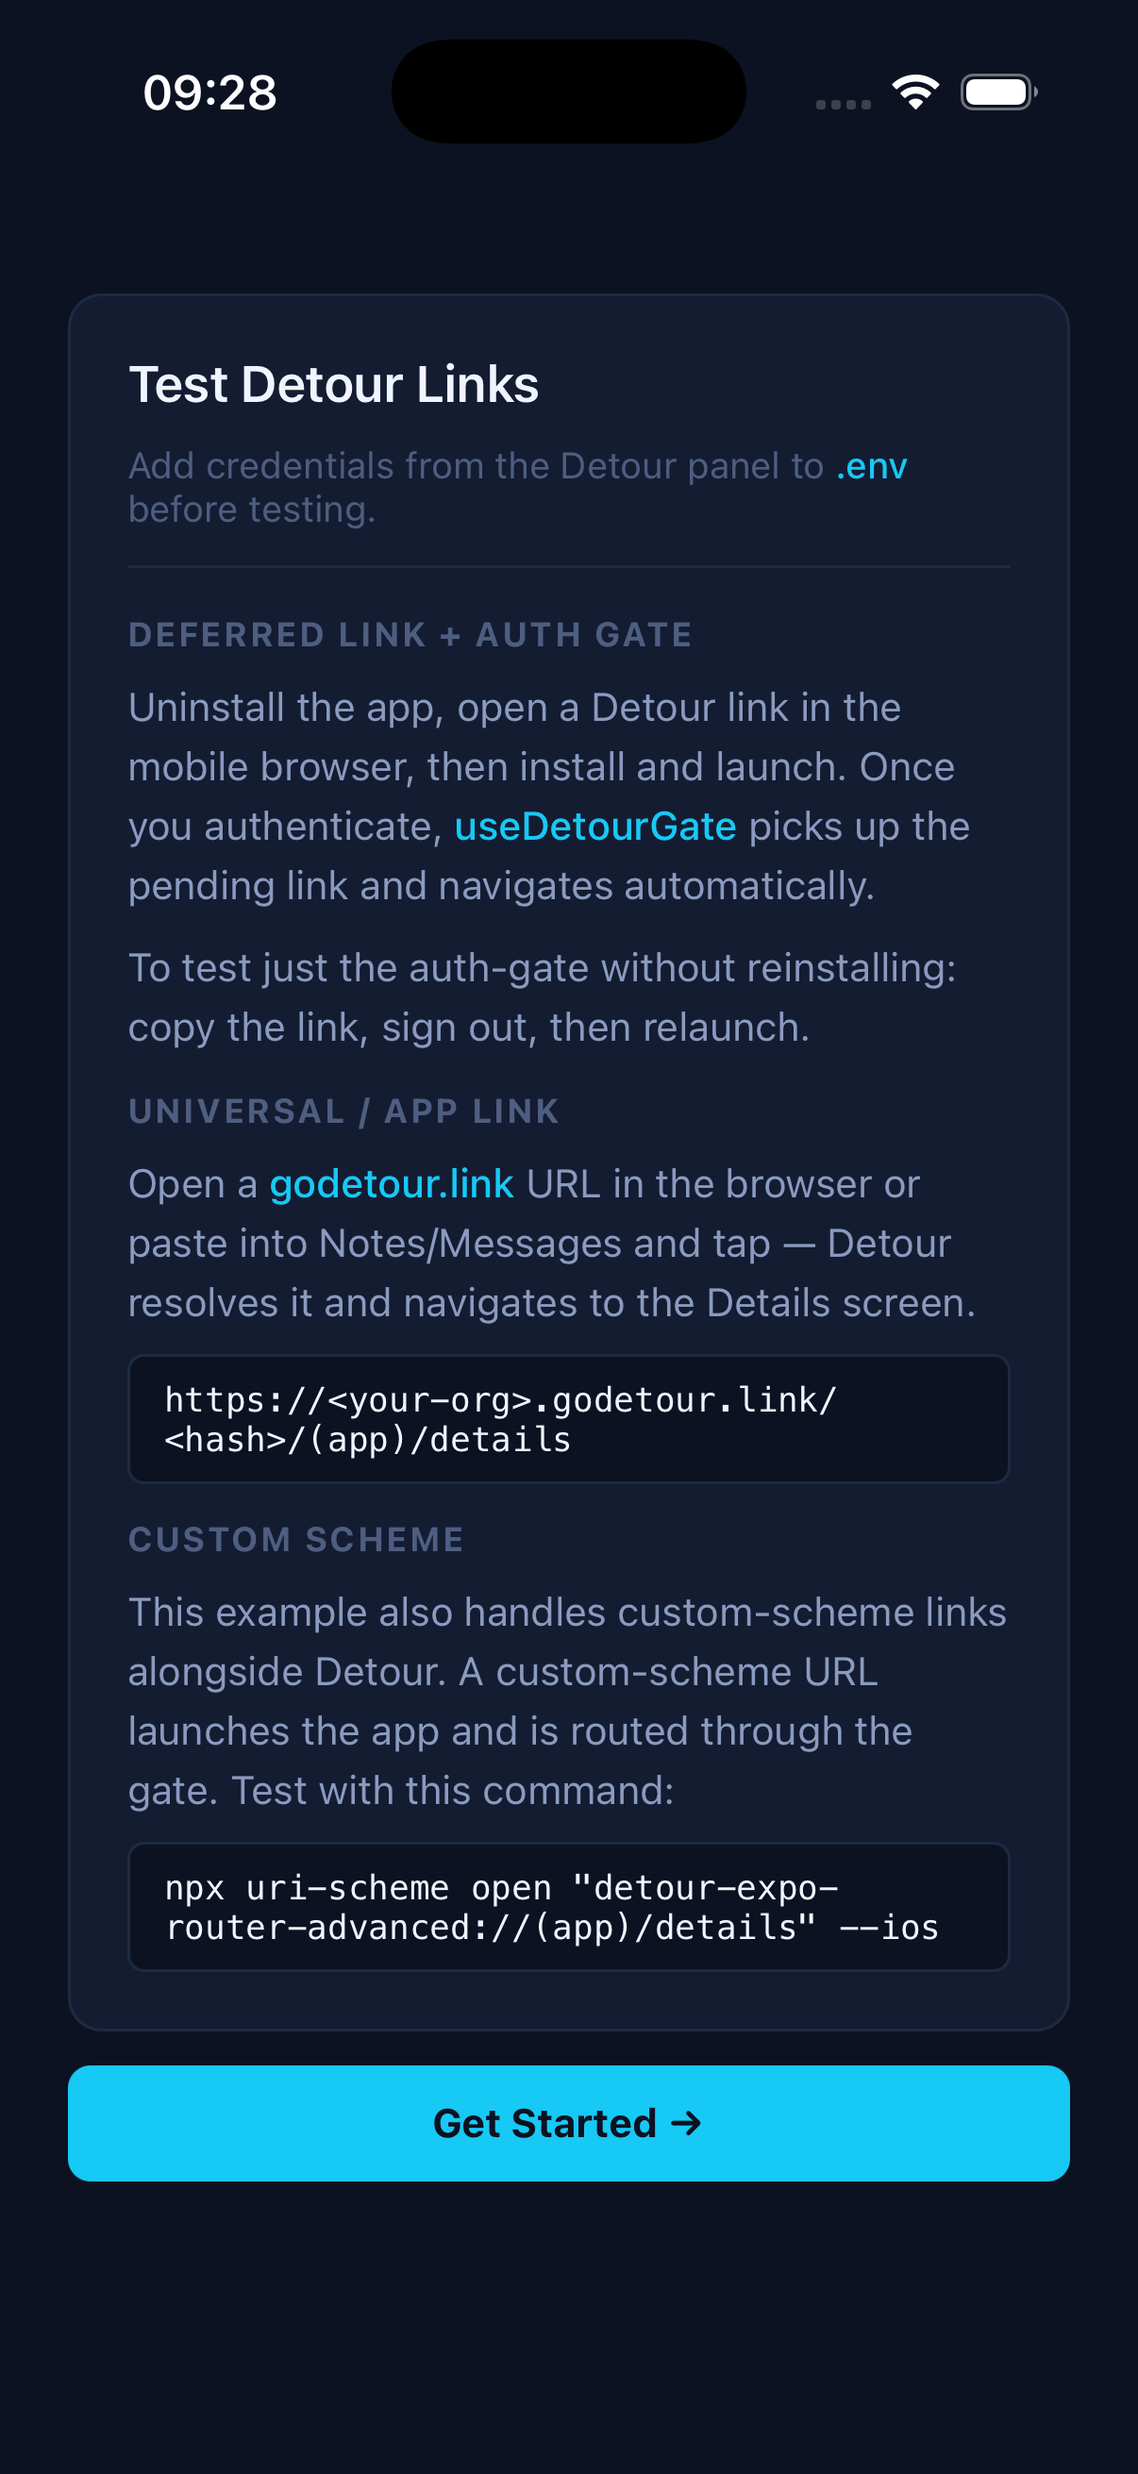
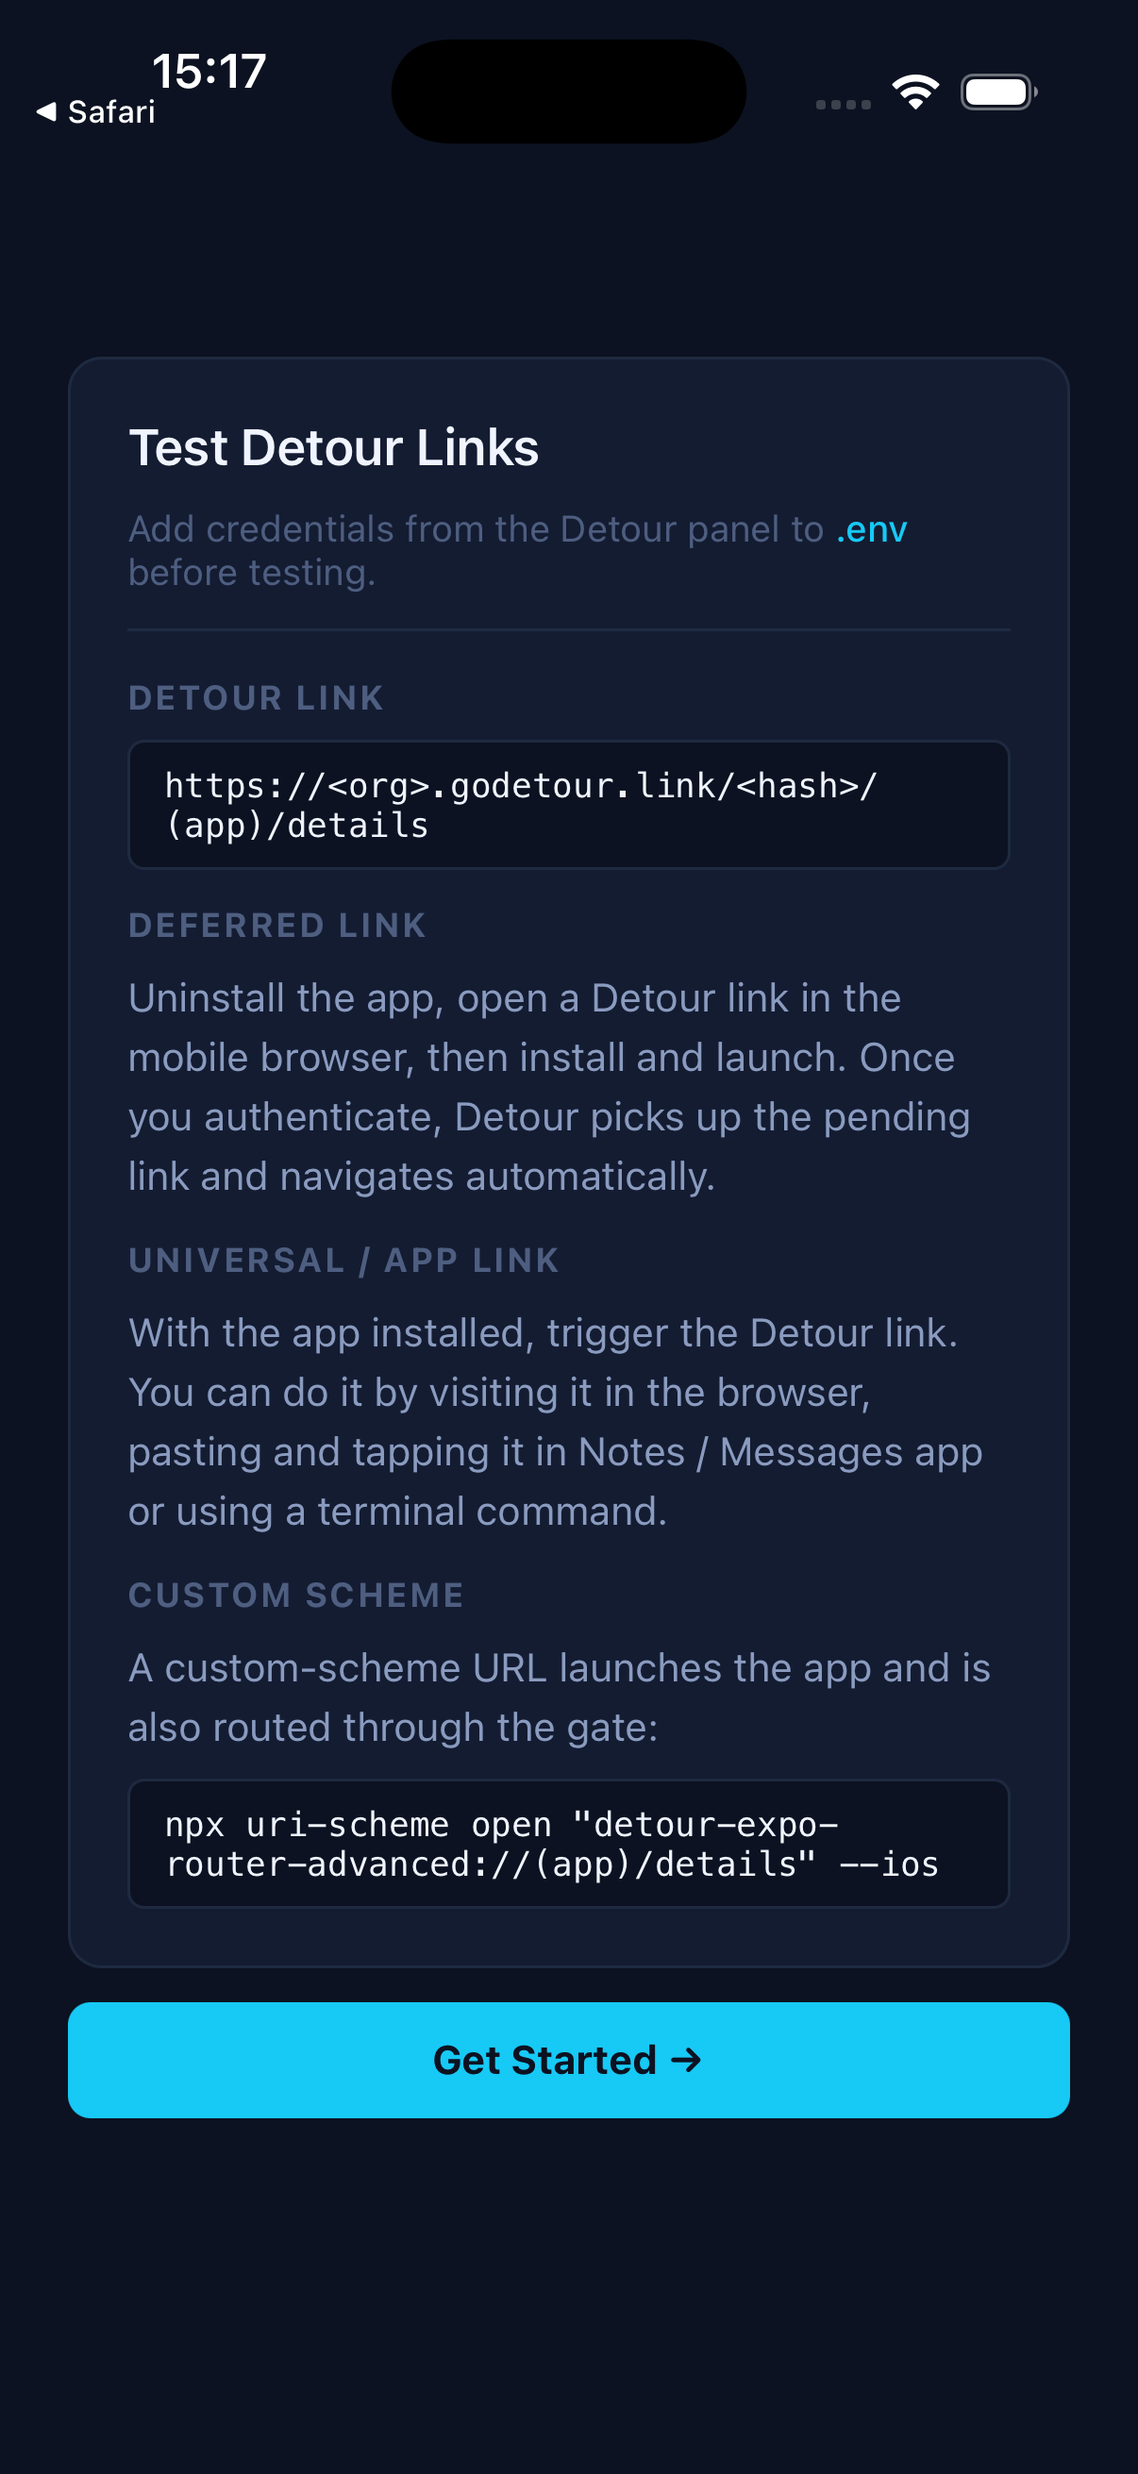
refactor: extract LinkTestingCard component

Changed region(s): [[0.0614, 0.1236, 0.9511, 0.8959], [0.0614, 0.0, 0.2454, 0.0618]]

diff --git a/examples/expo-router-advanced/src/app/(app)/(tabs)/index.tsx b/examples/expo-router-advanced/src/app/(app)/(tabs)/index.tsx
@@ -1,7 +1,8 @@
-import { Platform, Pressable, ScrollView, Text, View } from "react-native";
+import { Pressable, ScrollView, Text, View } from "react-native";
 
 import { Link } from "expo-router";
 
+import { LinkTestingCard } from "../../../LinkTestingCard";
 import { useAuth } from "../../../auth";
 import { colors, styles } from "../../../styles";
 
@@ -11,44 +12,7 @@ export default function HomeScreen() {
   return (
     <View style={{ flex: 1, backgroundColor: colors.background }}>
       <ScrollView contentContainerStyle={styles.scrollContent}>
-        <View style={styles.card}>
-          <Text style={styles.title}>Detour Example</Text>
-          <Text style={styles.subtitle}>
-            Add credentials from the Detour panel to <Text style={styles.accent}>.env</Text> before
-            testing.
-          </Text>
-
-          <View style={styles.divider} />
-
-          <Text style={styles.sectionHeader}>Universal / App Link</Text>
-          <Text style={styles.bullet}>
-            Open a <Text style={styles.accent}>godetour.link</Text> URL in the browser — Detour
-            resolves it and navigates to the Details screen.
-          </Text>
-          <Text style={styles.code}>
-            https://&lt;your-org&gt;.godetour.link/&lt;hash&gt;/(app)/details
-          </Text>
-
-          <Text style={styles.sectionHeader}>Custom Scheme</Text>
-          <Text style={styles.bullet}>
-            This example also handles custom-scheme links alongside Detour. A custom-scheme URL
-            launches the app and is routed through the gate. Test with this command:
-          </Text>
-          <Text style={styles.code}>
-            npx uri-scheme open {`"detour-expo-router-advanced://(app)/details"`}{" "}
-            {Platform.OS === "android" ? "--android" : "--ios"}
-          </Text>
-
-          <Text style={styles.sectionHeader}>Deferred Link + Auth Gate</Text>
-          <Text style={styles.bullet}>
-            Copy a Detour link, sign out, then relaunch. The link survives sign-in —{" "}
-            <Text style={styles.accent}>useDetourGate</Text> picks it up once authenticated.
-          </Text>
-          <Text style={styles.bullet}>
-            Make sure <Text style={styles.accent}>Copy link feature enabled</Text> is turned on in
-            App Configuration in the Detour panel.
-          </Text>
-        </View>
+        <LinkTestingCard title="Detour Example" />
       </ScrollView>
 
       <View style={{ flexDirection: "row", gap: 12, padding: 16 }}>

diff --git a/examples/expo-router-advanced/src/app/(app)/onboarding.tsx b/examples/expo-router-advanced/src/app/(app)/onboarding.tsx
@@ -1,9 +1,10 @@
-import { Platform, Pressable, ScrollView, Text, View } from "react-native";
+import { Pressable, ScrollView, Text } from "react-native";
 
 import { useRouter } from "expo-router";
 
 import { useDetourContext } from "@swmansion/react-native-detour";
 
+import { LinkTestingCard } from "../../LinkTestingCard";
 import { useAuth } from "../../auth";
 import { colors, styles } from "../../styles";
 
@@ -26,44 +27,7 @@ export default function OnboardingScreen() {
       style={{ flex: 1, backgroundColor: colors.background }}
       contentContainerStyle={styles.scrollContent}
     >
-      <View style={styles.card}>
-        <Text style={styles.title}>Test Detour Links</Text>
-        <Text style={styles.subtitle}>
-          Add credentials from the Detour panel to <Text style={styles.accent}>.env</Text> before
-          testing.
-        </Text>
-
-        <View style={styles.divider} />
-
-        <Text style={styles.sectionHeader}>Deferred Link + Auth Gate</Text>
-        <Text style={styles.bullet}>
-          Uninstall the app, open a Detour link in the mobile browser, then install and launch. Once
-          you authenticate, <Text style={styles.accent}>useDetourGate</Text> picks up the pending
-          link and navigates automatically.
-        </Text>
-        <Text style={styles.bullet}>
-          To test just the auth-gate without reinstalling: copy the link, sign out, then relaunch.
-        </Text>
-
-        <Text style={styles.sectionHeader}>Universal / App Link</Text>
-        <Text style={styles.bullet}>
-          Open a <Text style={styles.accent}>godetour.link</Text> URL in the browser or paste into
-          Notes/Messages and tap — Detour resolves it and navigates to the Details screen.
-        </Text>
-        <Text style={styles.code}>
-          https://&lt;your-org&gt;.godetour.link/&lt;hash&gt;/(app)/details
-        </Text>
-
-        <Text style={styles.sectionHeader}>Custom Scheme</Text>
-        <Text style={styles.bullet}>
-          This example also handles custom-scheme links alongside Detour. A custom-scheme URL
-          launches the app and is routed through the gate. Test with this command:
-        </Text>
-        <Text style={styles.code}>
-          npx uri-scheme open {`"detour-expo-router-advanced://(app)/details"`}{" "}
-          {Platform.OS === "android" ? "--android" : "--ios"}
-        </Text>
-      </View>
+      <LinkTestingCard title="Test Detour Links" />
 
       <Pressable
         onPress={handleGetStarted}

diff --git a/examples/expo-router-advanced/src/app/(app)/(tabs)/settings.tsx b/examples/expo-router-advanced/src/app/(app)/(tabs)/settings.tsx
@@ -1,7 +1,8 @@
-import { Platform, Pressable, ScrollView, Text, View } from "react-native";
+import { Pressable, ScrollView, Text, View } from "react-native";
 
 import { Link } from "expo-router";
 
+import { LinkTestingCard } from "../../../LinkTestingCard";
 import { useAuth } from "../../../auth";
 import { colors, styles } from "../../../styles";
 
@@ -11,44 +12,7 @@ export default function SettingsScreen() {
   return (
     <View style={{ flex: 1, backgroundColor: colors.background }}>
       <ScrollView contentContainerStyle={styles.scrollContent}>
-        <View style={styles.card}>
-          <Text style={styles.title}>Settings</Text>
-          <Text style={styles.subtitle}>
-            Add credentials from the Detour panel to <Text style={styles.accent}>.env</Text> before
-            testing.
-          </Text>
-
-          <View style={styles.divider} />
-
-          <Text style={styles.sectionHeader}>Universal / App Link</Text>
-          <Text style={styles.bullet}>
-            Open a <Text style={styles.accent}>godetour.link</Text> URL in the browser — Detour
-            resolves it and navigates to the Details screen.
-          </Text>
-          <Text style={styles.code}>
-            https://&lt;your-org&gt;.godetour.link/&lt;hash&gt;/(app)/details
-          </Text>
-
-          <Text style={styles.sectionHeader}>Custom Scheme</Text>
-          <Text style={styles.bullet}>
-            This example also handles custom-scheme links alongside Detour. A custom-scheme URL
-            launches the app and is routed through the gate. Test with this command:
-          </Text>
-          <Text style={styles.code}>
-            npx uri-scheme open {`"detour-expo-router-advanced://(app)/details"`}{" "}
-            {Platform.OS === "android" ? "--android" : "--ios"}
-          </Text>
-
-          <Text style={styles.sectionHeader}>Deferred Link + Auth Gate</Text>
-          <Text style={styles.bullet}>
-            Copy a Detour link, sign out, then relaunch. The link survives sign-in —{" "}
-            <Text style={styles.accent}>useDetourGate</Text> picks it up once authenticated.
-          </Text>
-          <Text style={styles.bullet}>
-            Make sure <Text style={styles.accent}>Copy link feature enabled</Text> is turned on in
-            App Configuration in the Detour panel.
-          </Text>
-        </View>
+        <LinkTestingCard title="Settings" />
       </ScrollView>
 
       <View style={{ flexDirection: "row", gap: 12, padding: 16 }}>

diff --git a/examples/expo-router-advanced/src/app/(app)/(tabs)/explore.tsx b/examples/expo-router-advanced/src/app/(app)/(tabs)/explore.tsx
@@ -1,7 +1,8 @@
-import { Platform, Pressable, ScrollView, Text, View } from "react-native";
+import { Pressable, ScrollView, Text, View } from "react-native";
 
 import { Link } from "expo-router";
 
+import { LinkTestingCard } from "../../../LinkTestingCard";
 import { useAuth } from "../../../auth";
 import { colors, styles } from "../../../styles";
 
@@ -11,44 +12,7 @@ export default function ExploreScreen() {
   return (
     <View style={{ flex: 1, backgroundColor: colors.background }}>
       <ScrollView contentContainerStyle={styles.scrollContent}>
-        <View style={styles.card}>
-          <Text style={styles.title}>Explore</Text>
-          <Text style={styles.subtitle}>
-            Add credentials from the Detour panel to <Text style={styles.accent}>.env</Text> before
-            testing.
-          </Text>
-
-          <View style={styles.divider} />
-
-          <Text style={styles.sectionHeader}>Universal / App Link</Text>
-          <Text style={styles.bullet}>
-            Open a <Text style={styles.accent}>godetour.link</Text> URL in the browser — Detour
-            resolves it and navigates to the Details screen.
-          </Text>
-          <Text style={styles.code}>
-            https://&lt;your-org&gt;.godetour.link/&lt;hash&gt;/(app)/details
-          </Text>
-
-          <Text style={styles.sectionHeader}>Custom Scheme</Text>
-          <Text style={styles.bullet}>
-            This example also handles custom-scheme links alongside Detour. A custom-scheme URL
-            launches the app and is routed through the gate. Test with this command:
-          </Text>
-          <Text style={styles.code}>
-            npx uri-scheme open {`"detour-expo-router-advanced://(app)/details"`}{" "}
-            {Platform.OS === "android" ? "--android" : "--ios"}
-          </Text>
-
-          <Text style={styles.sectionHeader}>Deferred Link + Auth Gate</Text>
-          <Text style={styles.bullet}>
-            Copy a Detour link, sign out, then relaunch. The link survives sign-in —{" "}
-            <Text style={styles.accent}>useDetourGate</Text> picks it up once authenticated.
-          </Text>
-          <Text style={styles.bullet}>
-            Make sure <Text style={styles.accent}>Copy link feature enabled</Text> is turned on in
-            App Configuration in the Detour panel.
-          </Text>
-        </View>
+        <LinkTestingCard title="Explore" />
       </ScrollView>
 
       <View style={{ flexDirection: "row", gap: 12, padding: 16 }}>

diff --git a/examples/expo-router-advanced/src/LinkTestingCard.tsx b/examples/expo-router-advanced/src/LinkTestingCard.tsx
@@ -1,0 +1,48 @@
+import { Platform, Text, View } from "react-native";
+
+import { styles } from "./styles";
+
+type LinkTestingCardProps = {
+  title: string;
+};
+
+// Shared testing guide rendered by the onboarding screen and every main tab,
+// so the instructions stay identical everywhere. The Detour link is shown once
+// up top because both the Deferred and Universal / App flows use it.
+export function LinkTestingCard({ title }: LinkTestingCardProps) {
+  return (
+    <View style={styles.card}>
+      <Text style={styles.title}>{title}</Text>
+      <Text style={styles.subtitle}>
+        Add credentials from the Detour panel to <Text style={styles.accent}>.env</Text> before
+        testing.
+      </Text>
+
+      <View style={styles.divider} />
+
+      <Text style={styles.sectionHeader}>Detour link</Text>
+      <Text style={styles.code}>https://&lt;org&gt;.godetour.link/&lt;hash&gt;/(app)/details</Text>
+
+      <Text style={styles.sectionHeader}>Deferred Link</Text>
+      <Text style={styles.bullet}>
+        Uninstall the app, open a Detour link in the mobile browser, then install and launch. Once
+        you authenticate, Detour picks up the pending link and navigates automatically.
+      </Text>
+
+      <Text style={styles.sectionHeader}>Universal / App Link</Text>
+      <Text style={styles.bullet}>
+        With the app installed, trigger the Detour link. You can do it by visiting it in the
+        browser, pasting and tapping it in Notes / Messages app or using a terminal command.
+      </Text>
+
+      <Text style={styles.sectionHeader}>Custom Scheme</Text>
+      <Text style={styles.bullet}>
+        A custom-scheme URL launches the app and is also routed through the gate:
+      </Text>
+      <Text style={styles.code}>
+        npx uri-scheme open {`"detour-expo-router-advanced://(app)/details"`}{" "}
+        {Platform.OS === "android" ? "--android" : "--ios"}
+      </Text>
+    </View>
+  );
+}

diff --git a/examples/expo-router-advanced/README.md b/examples/expo-router-advanced/README.md
@@ -1,7 +1,13 @@
 # Detour Expo Router Example (Advanced)
 
-An auth-gated [Expo Router](https://docs.expo.dev/router/introduction/) flow where an incoming deep link is held until the user signs in and clears first-launch onboarding, then replayed at the target screen.
+An auth-gated [Expo Router](https://docs.expo.dev/router/introduction/) flow where an incoming deep link is held until the user signs in and clears first-launch onboarding, then replayed at the target screen. Navigation is driven entirely by `useDetourGate` in the root layout — it waits until Detour finishes processing, then routes on auth and onboarding state.
 
+**Related examples:**
+
+- [`examples/expo-router`](../expo-router) — minimal Expo Router integration
+- [`examples/expo-router-native-intent`](../expo-router-native-intent) — route directly via `+native-intent`
+
+<br>
 <div style="display: flex; gap: 10px;">
   <img src="assets/screenshots/app-sign-in.png" alt="Sign-in screen with a Detour link pending" width="30%"/>
   <img src="assets/screenshots/app-onboarding.png" alt="First-launch onboarding screen" width="30%"/>
@@ -11,31 +17,19 @@ An auth-gated [Expo Router](https://docs.expo.dev/router/introduction/) flow whe
 
 > _**Auth-gated flow**. A Detour link arrives while signed out, so the app waits on the sign-in screen (left) → after signing in, a first-time user goes through onboarding (center) → the pending link is replayed and the app lands on Details (right)._
 
-Navigation is driven entirely by `useDetourGate` (`src/useDetourGate.ts`) in the root layout — it waits until Detour finishes processing, then routes on auth and onboarding state:
-
-- **Signed out** → `/sign-in`. Any pending link stays in `useDetourContext` and is **not** consumed until the user reaches an authenticated screen.
-- **First authenticated launch** → `/(app)/onboarding`; after **Get Started** the app lands on the main tabs (`Home` / `Explore` / `Settings`). Later launches skip onboarding.
-- **A link is pending** → once signed in (and onboarded), the gate replays it to `/(app)/details`, then calls `clearLink()` so it fires only once.
-- `src/app/+native-intent.tsx` intercepts Detour domains (and other URL-like paths) before Expo Router routing.
-
-**Related examples:**
-
-- [`examples/expo-router`](../expo-router) — minimal Expo Router integration
-- [`examples/expo-router-native-intent`](../expo-router-native-intent) — route directly via `+native-intent`
-
 ## Test flow
-
-**Universal / App link while signed out**
-
-1. Start the app signed out — you land on `/sign-in`.
-2. Trigger a Detour link to `/details` (see [Triggering links](#triggering-links)) — Detour resolves and holds it; you stay on `/sign-in` while the link waits in context.
-3. Tap **Sign in**. On a first launch the app shows the onboarding screen — tap **Get Started**; later launches skip straight through.
-4. The pending link is replayed and the app lands on `/details`, with the forwarded params visible.
-5. Switch back to the tabs — the same link does **not** trigger again (the gate already cleared it).
 
 **Deferred link**
 
-Follow the [Deferred deep link](#triggering-links) setup before installing, then launch signed out. The pre-install click is matched on first launch and held exactly like above — replayed to `/details` after sign-in and onboarding.
+1. Follow the [Deferred deep link](#triggering-links) setup to register a pre-install click, then install and launch the app signed out. The deferred match runs only on this fresh first launch.
+2. You land on `/sign-in` — Detour has matched the click and is holding the link in context, so a **Link pending** banner appears.
+3. Tap **Sign in**, then tap **Get Started** on the onboarding screen (shown on the first launch).
+4. The held link is replayed and the app lands on `/details`, with the forwarded params visible.
+5. Switch back to the tabs — the same link does **not** trigger again (the gate already cleared it).
+
+**Universal / App link**
+
+Same flow as above but don't need to reinstall — the link arrives at runtime. While signed out (tap **Logout** to get there), trigger a Detour link to `/details` (see [Triggering links](#triggering-links)). On later launches the onboarding step is skipped.
 
 ## Set up Detour
 
